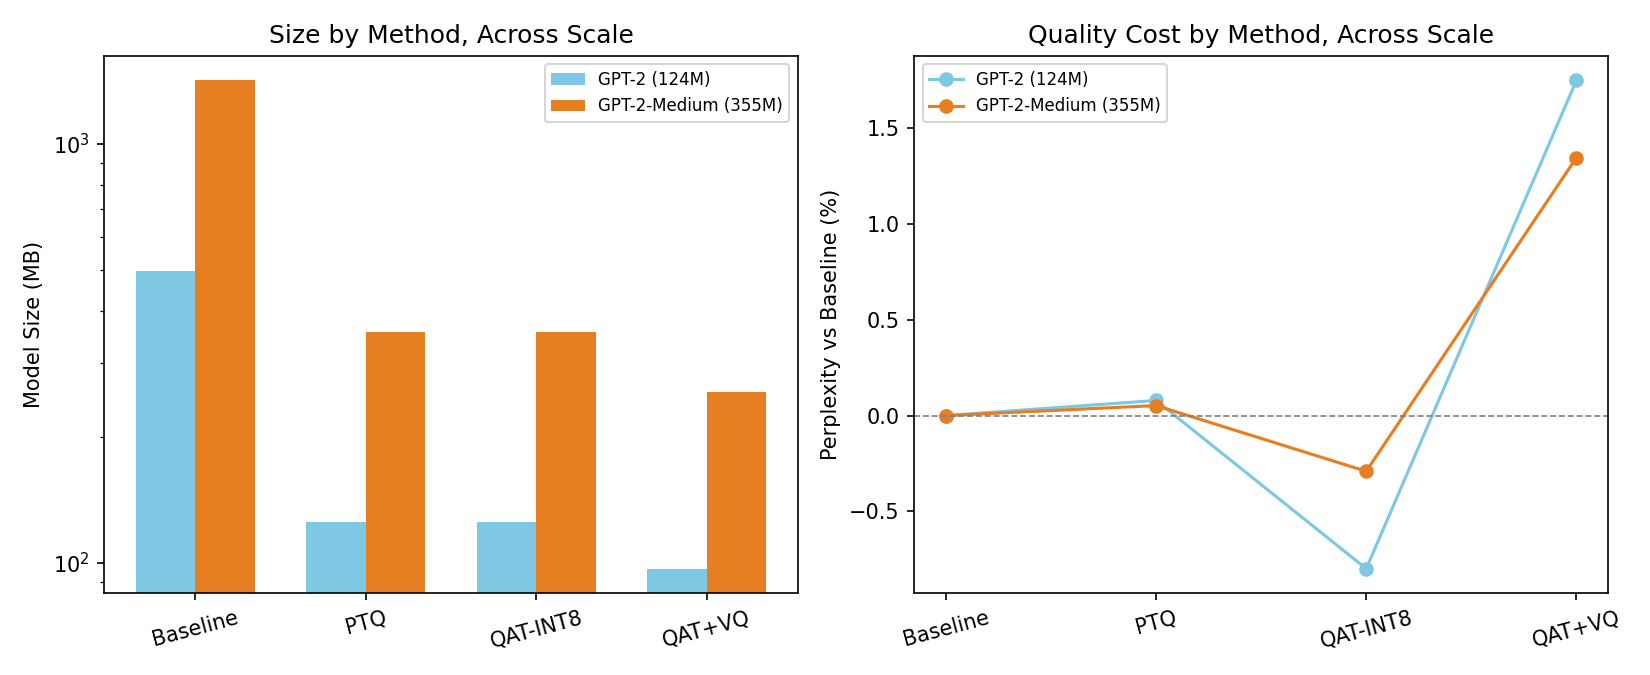
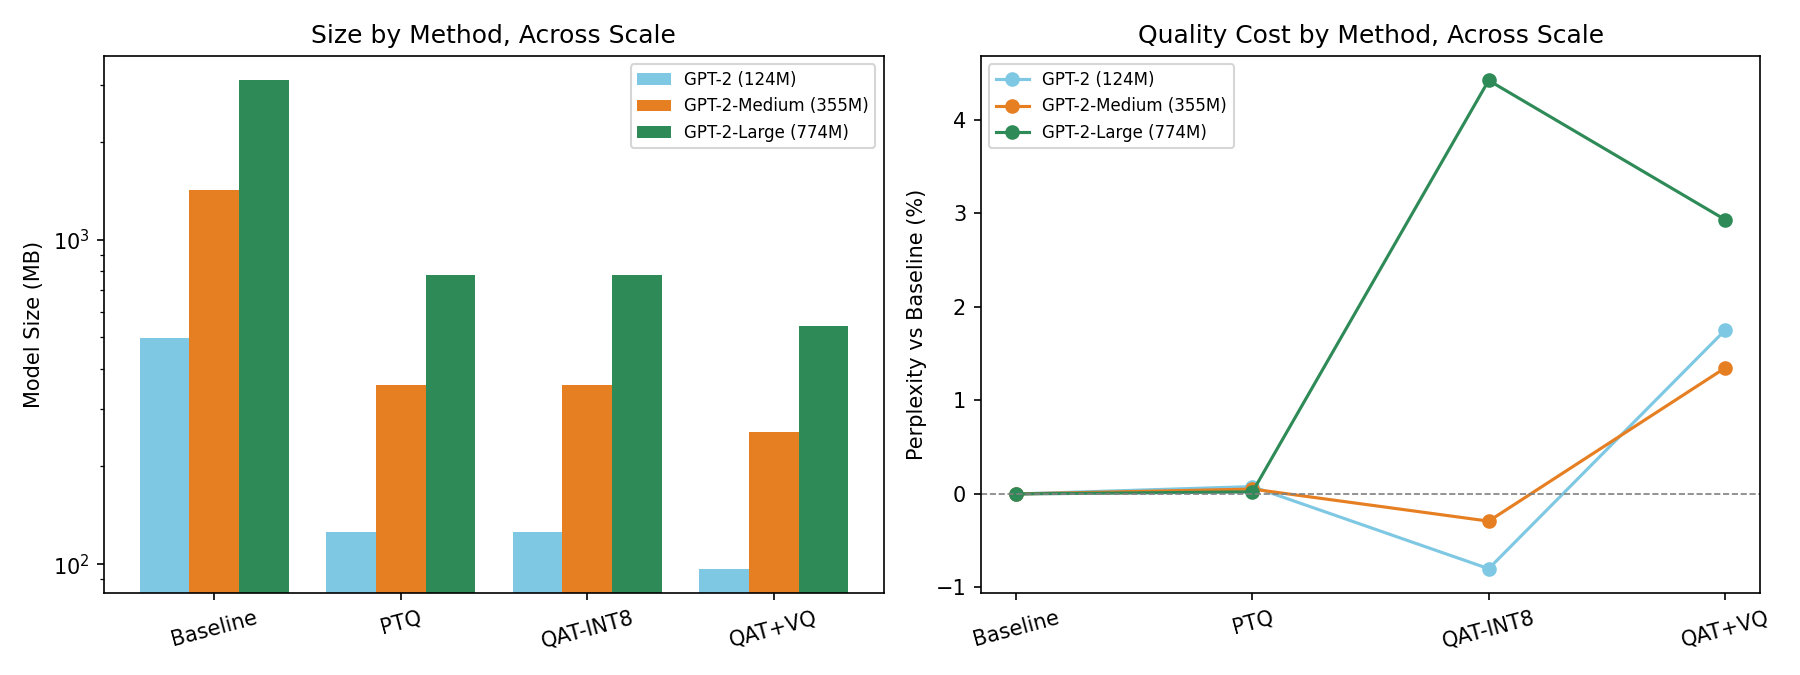
Add GPT-2-Large (774M) scaling point: 3rd size breaks the 2-point trend
Ran on Kaggle after two OOM failures forced a switch to 8-bit AdamW (see
train_baseline.py's make_optimizer -- plain AdamW's fp32 optimizer state
for 774M params alone is ~12.4GB, saturates a T4 regardless of batch size).
Took ~9.1h even with the fix.

Results: baseline 16.62ppl/3096MB, PTQ 16.62/777MB, QAT-INT8 17.35/777MB,
QAT+VQ 17.10/540MB (5.73x).

Honest finding, updates the earlier 2-point claim: compression ratio keeps
improving monotonically with scale (5.14x -> 5.55x -> 5.73x), but the
quality gap vs PTQ does NOT shrink monotonically -- it dips at 355M then
widens again at 774M (+1.68% -> +1.30% -> +2.89%), ending worse than the
124M starting point. Disclosed confound: gpt2-large used a 10M-char
calibration subset vs 20M for the other two sizes (compute budget), a
plausible explanation for the reversal that isn't ruled out. RESULTS.md
rewritten to report both findings honestly rather than force-fit the
original "improves with scale" story.

diff --git a/gpt2_scaling/RESULTS.md b/gpt2_scaling/RESULTS.md
@@ -1,29 +1,42 @@
-# GPT-2 Scaling Study — 124M vs 355M on WikiText-103
+# GPT-2 Scaling Study — 124M vs 355M vs 774M on WikiText-103
 
 Third experiment in the QAT-VQ series, asking a question the other two
 branches couldn't answer alone: **does the QAT+VQ compression/quality
 trade-off get better or worse as the model scales up?** Same method, same
-dataset (WikiText-103), two model sizes — directly comparable, unlike the
+dataset (WikiText-103), three model sizes — directly comparable, unlike the
 GPT-2/WikiText-2 branch which also changed the dataset alongside the task.
-Ran end-to-end on Kaggle (Tesla T4×2).
+Ran end-to-end on Kaggle (Tesla T4, single GPU per run).
 
-## Headline finding: the trade-off improves with scale
+## Headline finding: compression keeps improving with scale; the quality
+## gap does not shrink monotonically
 
-| | GPT-2 (124M) | GPT-2-Medium (355M) | Direction |
+| | GPT-2 (124M) | GPT-2-Medium (355M) | GPT-2-Large (774M) |
 |---|---|---|---|
-| QAT+VQ perplexity gap vs PTQ | +1.68% | +1.30% | **narrows** |
-| QAT+VQ size vs PTQ | 22.7% smaller | 28.4% smaller | **improves** |
-| QAT+VQ compression vs baseline | 5.14× | 5.55× | **improves** |
+| QAT+VQ perplexity gap vs PTQ | +1.68% | +1.30% | **+2.89%** |
+| QAT+VQ size vs PTQ | 22.7% smaller | 28.4% smaller | **30.4% smaller** |
+| QAT+VQ compression vs baseline | 5.14× | 5.55× | **5.73×** |
 
-At 355M params, QAT+VQ gets *both* a smaller relative accuracy cost *and* a
-better compression ratio than at 124M. This is the direction you want to see
-for a compression method aimed at larger, more practically-deployed models —
-the bigger the model, the more redundancy there is for Product-VQ to exploit,
-while the (small, fixed) codebook overhead matters proportionally less.
+With only two points (124M, 355M) the earlier version of this doc claimed
+the quality gap "narrows with scale." **The third point breaks that claim** —
+the gap widens again at 774M, ending up worse than even the 124M starting
+point. The compression-ratio trend, in contrast, *does* hold cleanly across
+all three sizes (5.14× → 5.55× → 5.73×, monotonic). Reporting both findings
+as they actually are, not force-fitting the original two-point story.
+
+**A real confound, disclosed rather than hidden:** GPT-2-Large's calibration/
+fine-tuning subset was cut to 10M characters (vs 20M for the other two
+sizes), purely for Kaggle compute-budget reasons — this run alone took
+~9.1 hours on a single T4 even at that reduced size, after two earlier OOM
+failures forced a switch to 8-bit AdamW (see below). Less fine-tuning data
+relative to a 2.2×-bigger model is a plausible explanation for the larger
+model's *worse-than-expected* QAT-INT8 and QAT+VQ numbers — this is **not**
+a fully controlled scaling comparison at the 774M point, and that should be
+weighed before treating the quality-gap reversal as a genuine model-scale
+effect rather than a data-budget artifact.
 
 ## Full results
 
-**GPT-2 (124M), WikiText-103:**
+**GPT-2 (124M), WikiText-103** (20M-char calibration subset):
 
 | Model | Perplexity | Size (MB) | Compression |
 |-------|-----------|-----------|-------------|
@@ -32,7 +45,7 @@ while the (small, fixed) codebook overhead matters proportionally less.
 | QAT-INT8 | 24.14 | 125.3 | 3.97× |
 | QAT+VQ | 24.76 | 96.8 | 5.14× |
 
-**GPT-2-Medium (355M), WikiText-103:**
+**GPT-2-Medium (355M), WikiText-103** (20M-char calibration subset):
 
 | Model | Perplexity | Size (MB) | Compression |
 |-------|-----------|-----------|-------------|
@@ -41,12 +54,24 @@ while the (small, fixed) codebook overhead matters proportionally less.
 | QAT-INT8 | 18.34 | 356.7 | 3.98× |
 | QAT+VQ | 18.65 | 255.6 | 5.55× |
 
-(Both models see much lower perplexity than the WikiText-2 branch's ~25-26
-range — WikiText-103's larger, more varied training text, even capped to a
-~5M-token subset, gives a stronger starting point than WikiText-2's full
-~2.4M-token train set.)
+**GPT-2-Large (774M), WikiText-103** (10M-char calibration subset — half the
+other two, see confound note above):
 
-## Method (identical at both scales)
+| Model | Perplexity | Size (MB) | Compression |
+|-------|-----------|-----------|-------------|
+| Baseline | 16.62 | 3096.3 | 1.00× |
+| PTQ | 16.62 | 777.3 | 3.98× |
+| QAT-INT8 | 17.35 | 777.3 | **+4.4% vs baseline** |
+| QAT+VQ | 17.10 | 540.5 | 5.73× |
+
+Perplexity keeps dropping with scale (24→18→17, expected — bigger models are
+just better language models), and PTQ stays essentially free of cost at
+every size. But **QAT-INT8, which was actually *better* than baseline at
+124M and 355M (fine-tuning recovering more than the quantization cost),
+flips to notably worse at 774M** (+4.4%) — the same reduced-calibration-data
+story likely applies here too, not just to QAT+VQ.
+
+## Method (identical at all three scales)
 
 - MLP weights → 4-bit Product-VQ (K=256 codebook, 2-D sub-vectors), best-of-3
   seeds, then codebook fine-tuned (best-checkpoint guarded).
@@ -54,23 +79,40 @@ range — WikiText-103's larger, more varied training text, even capped to a
 - Embeddings → INT8.
 - `quant_gpt2.py` is reused completely unmodified from the GPT-2/WikiText-2
   branch — Conv1D layer surgery doesn't care about hidden size, which is
-  exactly what makes this a clean scaling comparison rather than a new
-  implementation each time.
+  exactly what makes this a clean method comparison across scales.
 
-Codebook fine-tuning helped at both scales (matches the WikiText-2 branch's
-finding, not the DistilBERT branch's): GPT-2-Medium's QAT+VQ improved from
-19.03 ppl (pre-finetune, best seed) to 18.65 ppl over 2 fine-tune epochs.
+Codebook fine-tuning helped at all three scales (matches the WikiText-2
+branch's finding, not the DistilBERT branch's): GPT-2-Large's QAT+VQ improved
+from a pre-finetune 19.0-ish ppl (best seed) to 17.10 ppl over 2 fine-tune
+epochs — the largest fine-tuning recovery of the three sizes, though again
+this is entangled with the smaller calibration set used at this scale.
+
+### The 774M run needed 8-bit AdamW to fit in 16GB
+
+Two earlier attempts (batch size 2, then 1) OOM'd at almost the exact same
+memory mark regardless of batch size — the giveaway that it wasn't an
+activation/batch-size problem at all. Plain AdamW's fp32 optimizer state
+(weights + gradients + 2 Adam moments ≈ 4× parameter memory) for 774M
+parameters alone is ~12.4 GB, saturating a T4's ~14.5 GB usable budget
+before any batch data even enters the picture. Switching to 8-bit AdamW
+(`bitsandbytes`) cut optimizer memory roughly 4× and let the run complete —
+applied everywhere the (near-)full model is trained: baseline fine-tuning,
+the QAT fine-tune step, and the codebook fine-tune step (the latter two also
+train nearly all parameters via `FakeQuantConv1D`/`PQConv1D` wrapping, same
+OOM exposure as full fine-tuning).
 
 ## Honest framing
 
-QAT+VQ still does not beat PTQ outright at either scale (same as the
-WikiText-2 branch) — it remains a Pareto point, not a win. What's new here is
-evidence that the point moves in the *right* direction as models get bigger,
-which is the more important claim for real-world relevance: practical
-deployment targets are 1B+ parameter models, not 124M ones, and this trend
-suggests the method's value proposition strengthens exactly where it matters
-most. Two data points is a trend, not a proof — a third size (e.g. GPT-2-Large,
-774M, or a ~1B model) would make this a stronger claim.
+QAT+VQ does not beat PTQ outright at any of the three scales — it remains a
+Pareto point (meaningfully smaller, at some perplexity cost), not a win. The
+size trend across scale is real and clean: compression keeps improving as
+the model grows (5.14× → 5.55× → 5.73×). The quality-gap trend is *not*
+clean once a third point is added — it dips then rises, and the 774M point
+is confounded by a smaller calibration subset than the other two sizes used.
+**The honest claim from this branch is: compression improves with scale;
+whether the quality cost does too is unresolved** — a controlled re-run of
+GPT-2-Large with the same 20M-char subset as the other two (more Kaggle GPU
+time than was budgeted here) would be needed to settle it cleanly.
 
 ## Reproduce
 
@@ -84,15 +126,23 @@ python train_baseline.py --model gpt2-medium --epochs 1 --bs 4 --grad_accum 2
 python run_experiments.py --model gpt2-medium --sub_dim 2 --K 256 --seeds 0 1 2 --bs_train 4 --bs_eval 4
 python finetune_vq.py --model gpt2-medium --seed <best> --epochs 2 --lr 5e-6 --bs_train 2 --bs_eval 2
 
+# gpt2-large needs bitsandbytes (pip install bitsandbytes) for 8-bit AdamW,
+# and fits a T4's 16GB only at bs=1 even with it.
+python train_baseline.py --model gpt2-large --epochs 1 --bs 1 --grad_accum 8 --train_subset_chars 10000000
+python run_experiments.py --model gpt2-large --sub_dim 2 --K 256 --seeds 0 1 2 --bs_train 1 --bs_eval 1 --train_subset_chars 10000000
+python finetune_vq.py --model gpt2-large --seed <best> --epochs 2 --lr 5e-6 --bs_train 1 --bs_eval 1 --train_subset_chars 10000000
+
 python make_figures.py   # per-model figures + combined scaling_comparison.png
 ```
 
-See `../kaggle_kernel_scaling/` for the Kaggle notebook that ran both sizes
-sequentially in one session.
+See `../kaggle_kernel_scaling/` (124M + 355M, one session) and
+`../kaggle_kernel_scaling_large/` (774M only, reuses the other two's
+already-committed results for the combined comparison) for the Kaggle
+notebooks used.
 
 ## Figures
 
 - `artifacts/figures/scaling_comparison.png` — the key deliverable: size and
-  relative-perplexity-cost by method, side by side across both model sizes.
-- `artifacts/gpt2/figures/ppl_vs_size.png`, `artifacts/gpt2-medium/figures/ppl_vs_size.png`
-  — per-model Pareto scatter.
+  relative-perplexity-cost by method, side by side across all three sizes.
+- `artifacts/gpt2/figures/ppl_vs_size.png`, `artifacts/gpt2-medium/figures/ppl_vs_size.png`,
+  `artifacts/gpt2-large/figures/ppl_vs_size.png` — per-model Pareto scatter.

diff --git a/gpt2_scaling/artifacts/scaling_table.md b/gpt2_scaling/artifacts/scaling_table.md
@@ -8,3 +8,7 @@
 | GPT-2-Medium (355M) | PTQ | 18.41 | 356.7 | 3.98x | +0.1% |
 | GPT-2-Medium (355M) | QAT-INT8 | 18.34 | 356.7 | 3.98x | -0.3% |
 | GPT-2-Medium (355M) | QAT+VQ | 18.65 | 255.6 | 5.55x | +1.3% |
+| GPT-2-Large (774M) | Baseline | 16.62 | 3096.3 | 1.00x | +0.0% |
+| GPT-2-Large (774M) | PTQ | 16.62 | 777.3 | 3.98x | +0.0% |
+| GPT-2-Large (774M) | QAT-INT8 | 17.35 | 777.3 | 3.98x | +4.4% |
+| GPT-2-Large (774M) | QAT+VQ | 17.10 | 540.5 | 5.73x | +2.9% |

diff --git a/gpt2_scaling/artifacts/gpt2-large/results_table.md b/gpt2_scaling/artifacts/gpt2-large/results_table.md
@@ -1,0 +1,6 @@
+| Model | Perplexity | Size (MB) | Compression |
+|-------|-----------|-----------|-------------|
+| Baseline | 16.62 | 3096.3 | 1.00x |
+| PTQ | 16.62 | 777.3 | 3.98x |
+| QAT-INT8 | 17.35 | 777.3 | 3.98x |
+| QAT+VQ | 17.10 | 540.5 | 5.73x |
